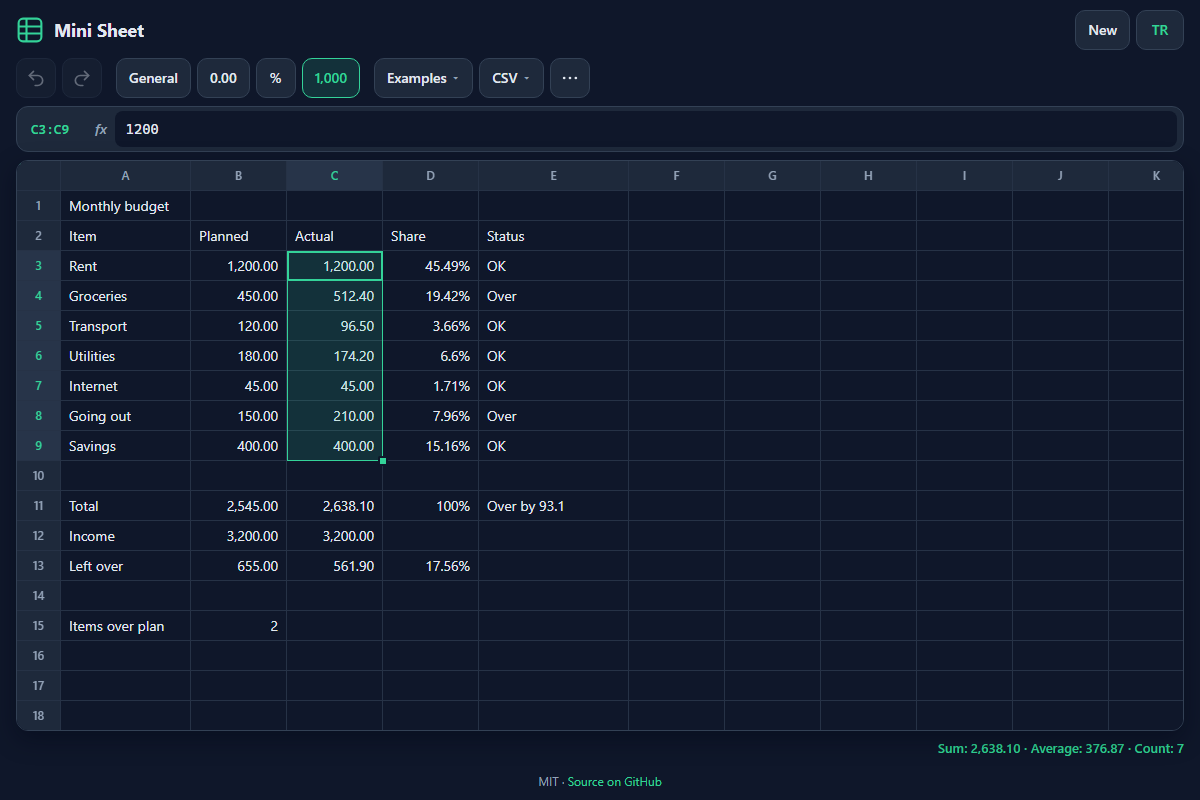
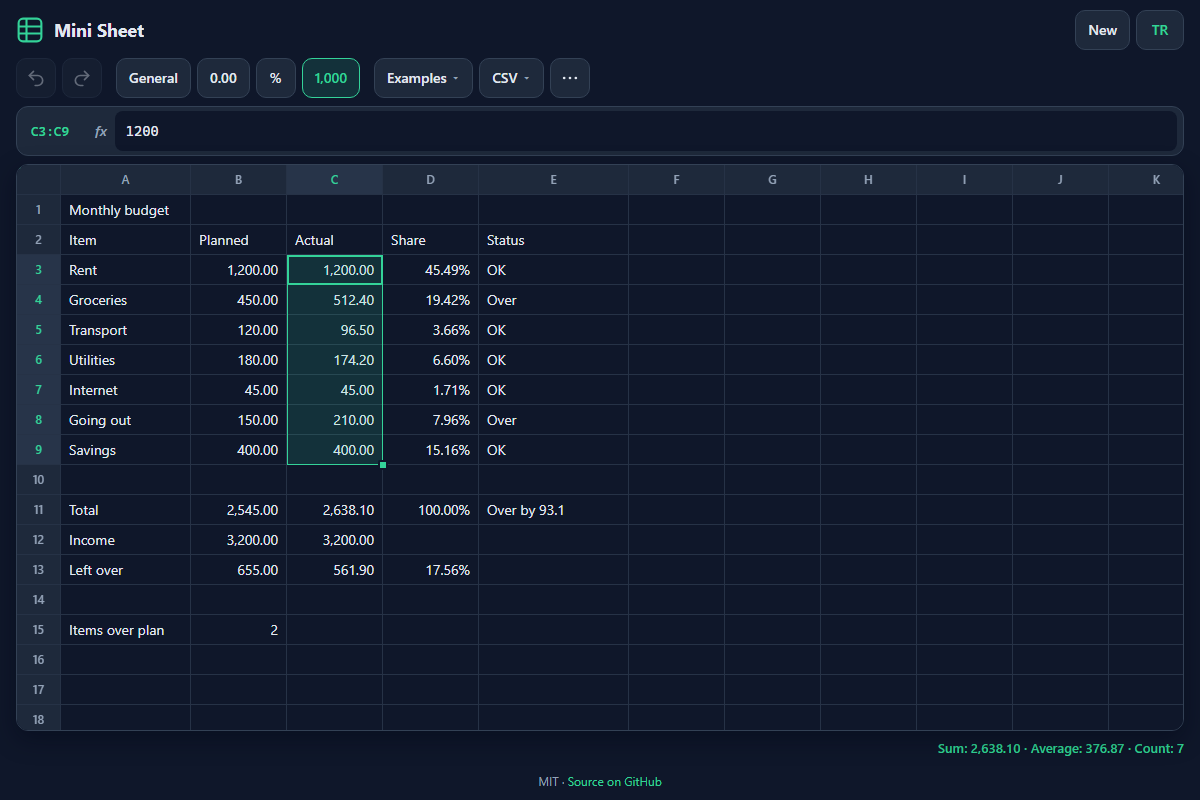
Polish: even percent column, narrower phone columns

diff --git a/src/grid.js b/src/grid.js
@@ -8,6 +8,9 @@ const LONG_PRESS_MS = 500;
 const TAP_SLOP = 10;
 const EDGE_SCROLL = 28;
 const ROW_HEAD_WIDTH = 44;
+/** Column widths are drawn smaller on phones so more columns fit. */
+const NARROW_QUERY = '(max-width: 480px)';
+const NARROW_SCALE = 0.8;
 
 /**
  * @typedef {import('./refs.js').Range} Range
@@ -61,8 +64,16 @@ export class GridView {
     this.editor.type = 'text';
     this.editor.autocomplete = 'off';
     this.editor.spellcheck = false;
+    this.widths = [];
+    this.narrow = window.matchMedia(NARROW_QUERY);
+    this.narrow.addEventListener('change', () => this.setWidths(this.widths));
     this.build();
     this.bindPointer();
+  }
+
+  /** Display scale for column widths (stored widths stay unscaled). */
+  get scale() {
+    return this.narrow.matches ? NARROW_SCALE : 1;
   }
 
   // ---- building -----------------------------------------------------------
@@ -153,10 +164,12 @@ export class GridView {
    * @param {number[]} widths
    */
   setWidths(widths) {
+    this.widths = widths;
     let total = ROW_HEAD_WIDTH;
     widths.forEach((w, i) => {
-      this.cols[i].style.width = `${w}px`;
-      total += w;
+      const shown = Math.round(w * this.scale);
+      this.cols[i].style.width = `${shown}px`;
+      total += shown;
     });
     this.table.style.width = `${total}px`;
   }
@@ -340,7 +353,7 @@ export class GridView {
     this.track(e, (ev) => {
       width = Math.max(40, Math.min(400, startW + ev.clientX - startX));
       this.cols[c].style.width = `${width}px`;
-    }, () => this.on.resize(c, width));
+    }, () => this.on.resize(c, Math.round(width / this.scale)));
   }
 
   startFill(e) {

diff --git a/test/sheet.test.js b/test/sheet.test.js
@@ -54,8 +54,11 @@ test('number formats use the UI language separators', () => {
   assert.equal(formatValue(1234.5, 'thousands', 'tr'), '1.234,50');
   assert.equal(formatValue(1234567.891, 'thousands', 'en'), '1,234,567.89');
   assert.equal(formatValue(-1234.5, 'fixed2', 'en'), '-1234.50');
-  assert.equal(formatValue(0.125, 'percent', 'en'), '12.5%');
-  assert.equal(formatValue(0.125, 'percent', 'tr'), '%12,5');
+  assert.equal(formatValue(0.125, 'percent', 'en'), '12.50%');
+  assert.equal(formatValue(1, 'percent', 'en'), '100.00%');
+  assert.equal(formatValue(0.066, 'percent', 'en'), '6.60%');
+  assert.equal(formatValue(-0.00001, 'percent', 'en'), '0.00%');
+  assert.equal(formatValue(0.125, 'percent', 'tr'), '%12,50');
   assert.equal(formatValue(-0.001, 'fixed2', 'en'), '0.00');
   assert.equal(formatValue(0.1 + 0.2, 'general', 'en'), '0.3');
   assert.equal(formatValue(2.5, 'general', 'tr'), '2,5');

diff --git a/src/format.js b/src/format.js
@@ -37,7 +37,7 @@ function trimmed(n, max, sep) {
 
 /**
  * Display text of a value in a format and UI language.
- * English: 1,234.56 and 12.5%; Turkish: 1.234,56 and %12,5.
+ * English: 1,234.56 and 12.50%; Turkish: 1.234,56 and %12,50.
  * @param {import('./values.js').Value} value
  * @param {string} [format]  one of FORMATS
  * @param {'en'|'tr'} [lang]
@@ -53,7 +53,7 @@ export function formatValue(value, format = 'general', lang = 'en') {
   const abs = Math.abs(value);
   let body;
   if (format === 'percent') {
-    const digits = trimmed(abs * 100, 2, sep);
+    const digits = fixed(abs * 100, 2, false, sep);
     body = lang === 'tr' ? `%${digits}` : `${digits}%`;
   } else {
     body = fixed(abs, 2, format === 'thousands', sep);

diff --git a/style.css b/style.css
@@ -379,6 +379,10 @@ body { overflow: hidden; }
   .statusbar { font-size: 12px; }
 }
 
+@media (max-width: 480px) {
+  .grid th, .grid td { padding: 0 4px; }
+}
+
 @media (prefers-reduced-motion: reduce) {
   *, *::before, *::after {
     animation: none !important;
